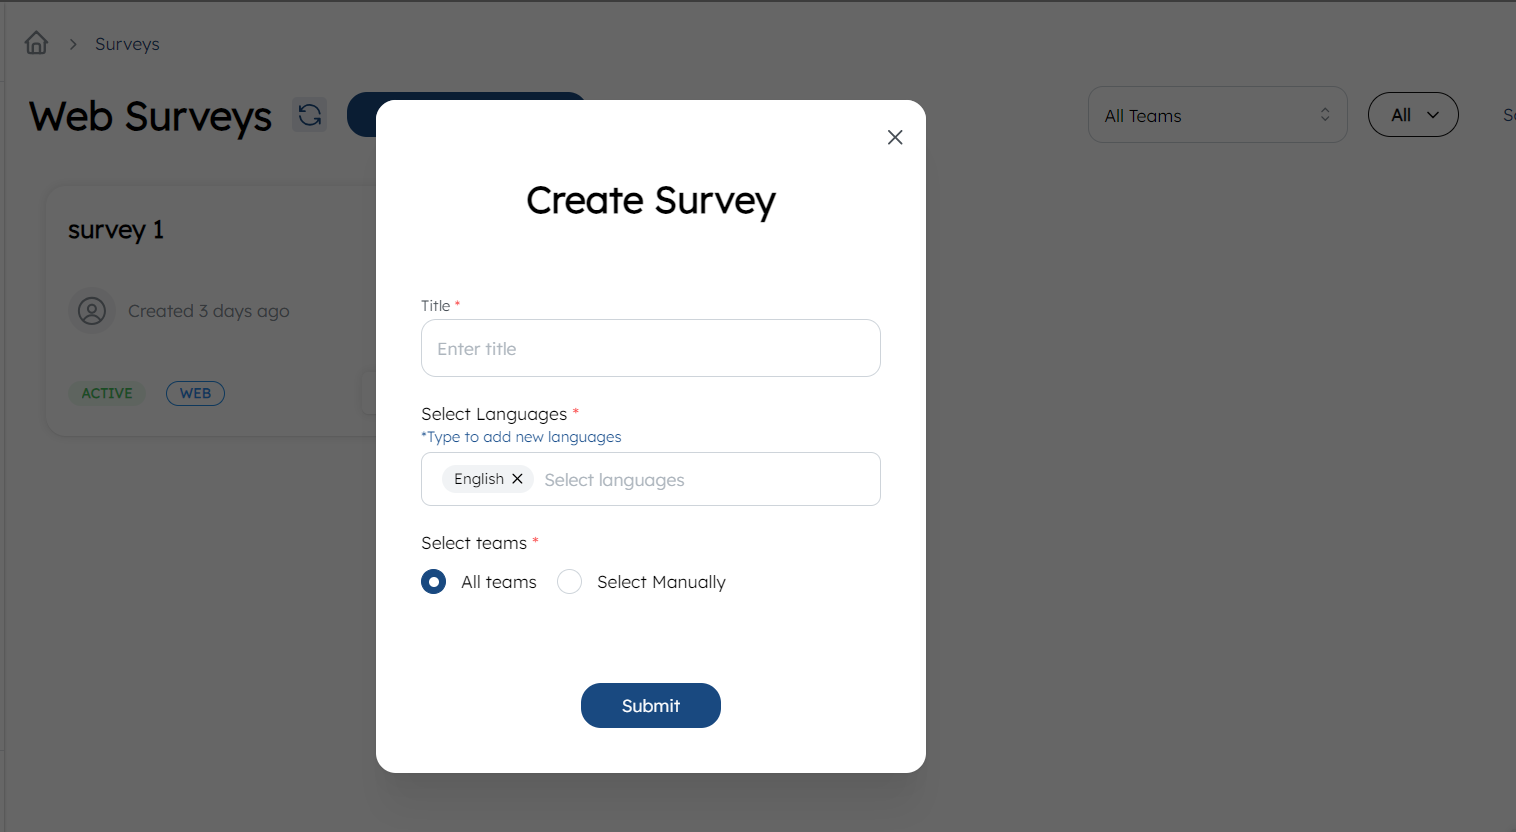
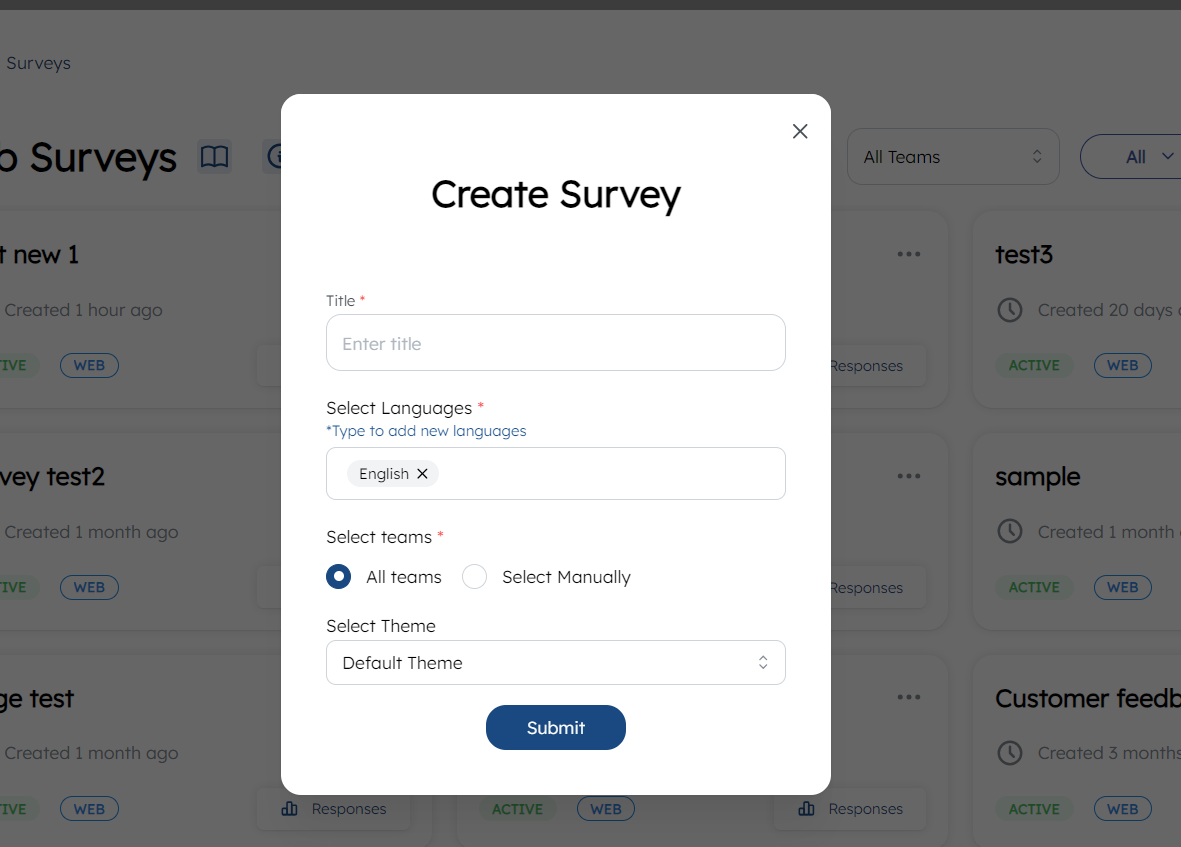
web survey updates

diff --git a/apps/rateup-docs/components/Screenshot.tsx b/apps/rateup-docs/components/Screenshot.tsx
@@ -9,7 +9,7 @@ interface ScreenshotProps {
 const Screenshot = ( { src, alt, width , height } : ScreenshotProps) => {
   return (
       <img src={src} alt={alt} width={width || "80%"} height={height || "auto"} style={{margin:"auto", 
-        marginTop:"20px", boxShadow:"10px 10px 20px rgba(0, 0, 0, 0.1)", borderRadius:"5px"}}/>
+        marginTop:"20px", boxShadow:"10px 10px 20px rgba(0, 0, 0, 0.1)", borderRadius:"5px"}} loading="lazy"/>
   )
 }
 
